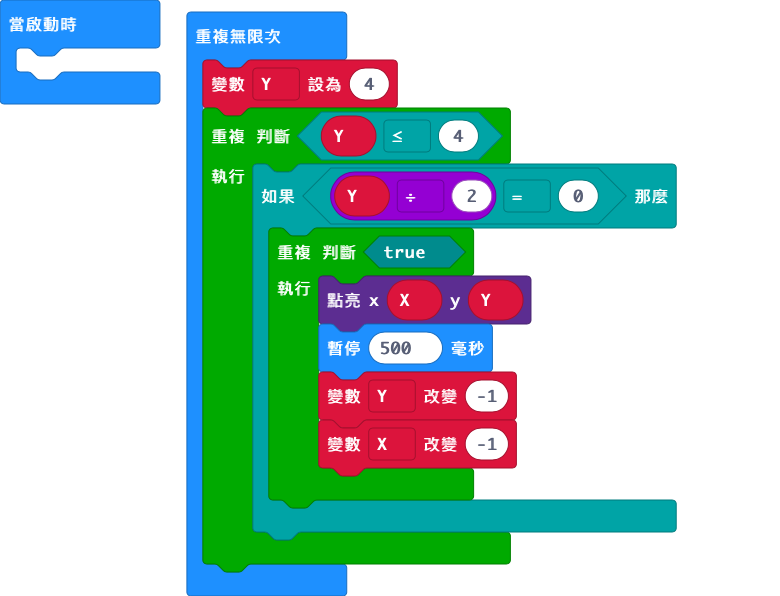
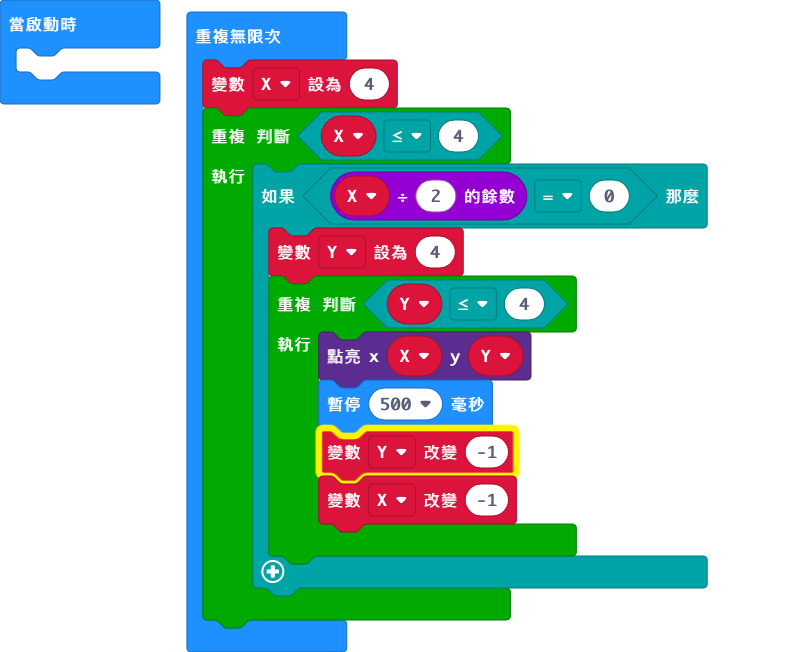
變斜線了

Changed region(s): [[0.0, 0.0, 0.8923, 1.0]]

diff --git a/main.ts b/main.ts
@@ -1,10 +1,11 @@
-let Y = 0
 let X = 0
+let Y = 0
 basic.forever(function () {
-    Y = 4
-    while (Y <= 4) {
-        if (Y / 2 == 0) {
-            while (true) {
+    X = 4
+    while (X <= 4) {
+        if (X % 2 == 0) {
+            Y = 4
+            while (Y <= 4) {
                 led.plot(X, Y)
                 basic.pause(500)
                 Y += -1
